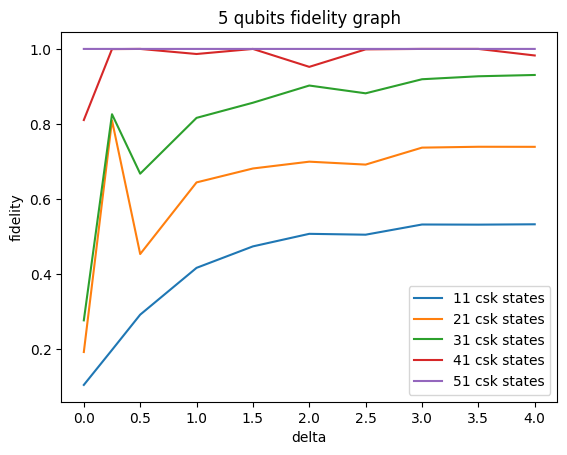
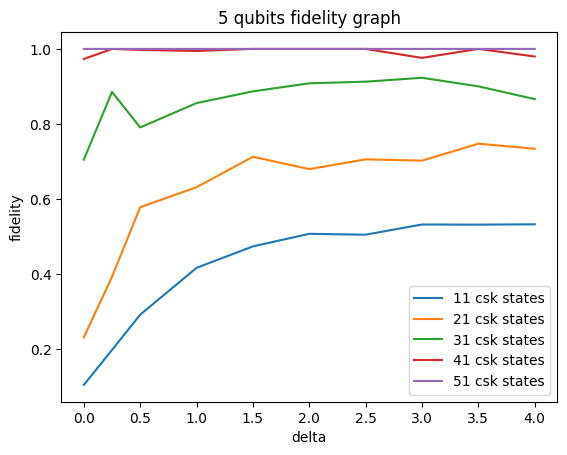
Jon

diff --git a/reproduce_fujiBoiGraphs.py b/reproduce_fujiBoiGraphs.py
@@ -18,15 +18,15 @@ use_qiskit = False
 loadmatlabmatrix = False
 runSDPonpython = True
 
-num_qubits = 2
-uptowhatK = 2
+num_qubits = 5
+uptowhatK = 5
 sdp_tolerance_bound = 0
 
 #Generate initial state
 random_generator = np.random.default_rng(123)
 initial_state = acp.Initialstate(num_qubits, "efficient_SU2", random_generator, 1)
 
-random_selection_new = False
+random_selection_new = True
 if random_selection_new == True:
     numberofnewstatestoadd = 10 #Only will be used if 'random_selection_new' is selected
 
@@ -270,6 +270,6 @@ else:
 observable_names = [r'$<X_1>$',r'$<Y_1>$',r'$<Z_1>$']
 plotp.plot_fidelities(num_qubits,results,random_selection_new,num_of_csk_states)
 plotp.print_plot('graphsforpaper/new_%s_qubit_fidelity.png'%num_qubits,bboxtight="tight")
-plotp.qutip_comparison_with_k_plot_expectation_values(num_qubits,results, theoretical_curves, [1,2],random_selection_new,num_of_csk_states,specify_names=True,observable_names=observable_names)
+plotp.qutip_comparison_with_k_plot_expectation_values(num_qubits,results, theoretical_curves, [4,5],random_selection_new,num_of_csk_states,specify_names=True,observable_names=observable_names)
 plotp.print_plot('graphsforpaper/new_%s_qubit.png'%num_qubits,bboxtight="tight")    
 # %%
